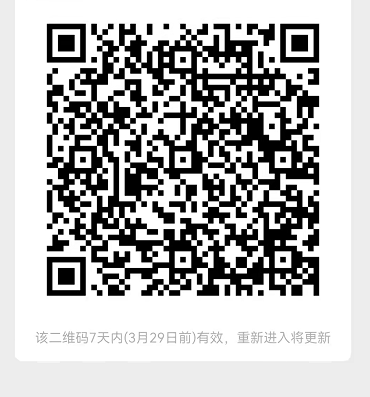
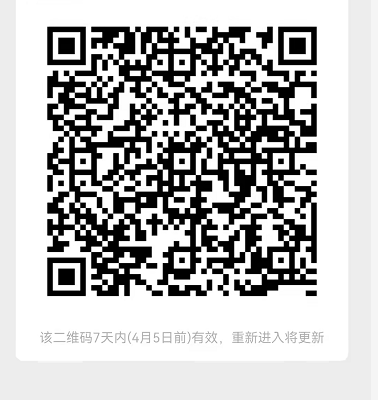
修改微信二维码

diff --git a/api/http.js b/api/http.js
@@ -1,7 +1,7 @@
 /**
  * 封装http 请求方法
  */
-const apiUrl = "http://127.0.0.1:8000/api/wx/"; //服务器api地址
+const apiUrl = "http://127.0.0.1:8000/"; //服务器api地址
 const http = (params) => {
   //返回promise 对象
   return new Promise((resolve, reject) => {
@@ -10,7 +10,7 @@ const http = (params) => {
       data: params.data,//请求参数
       header: params.header || {
         "Content-Type": "application/x-www-form-urlencoded",
-        "X-token-zaowanda":"442de8a8344540aeb37e73e7176ff504"
+        "X-token-zaowanda":""
       },
       method: params.method || 'POST',//默认为POST,可以不写，如常用请求格式为POST，可以设置POST为默认请求方式
       dataType: params.dataType,//返回的数据格式,默认为JSON，特殊格式可以在调用的时候传入参数
